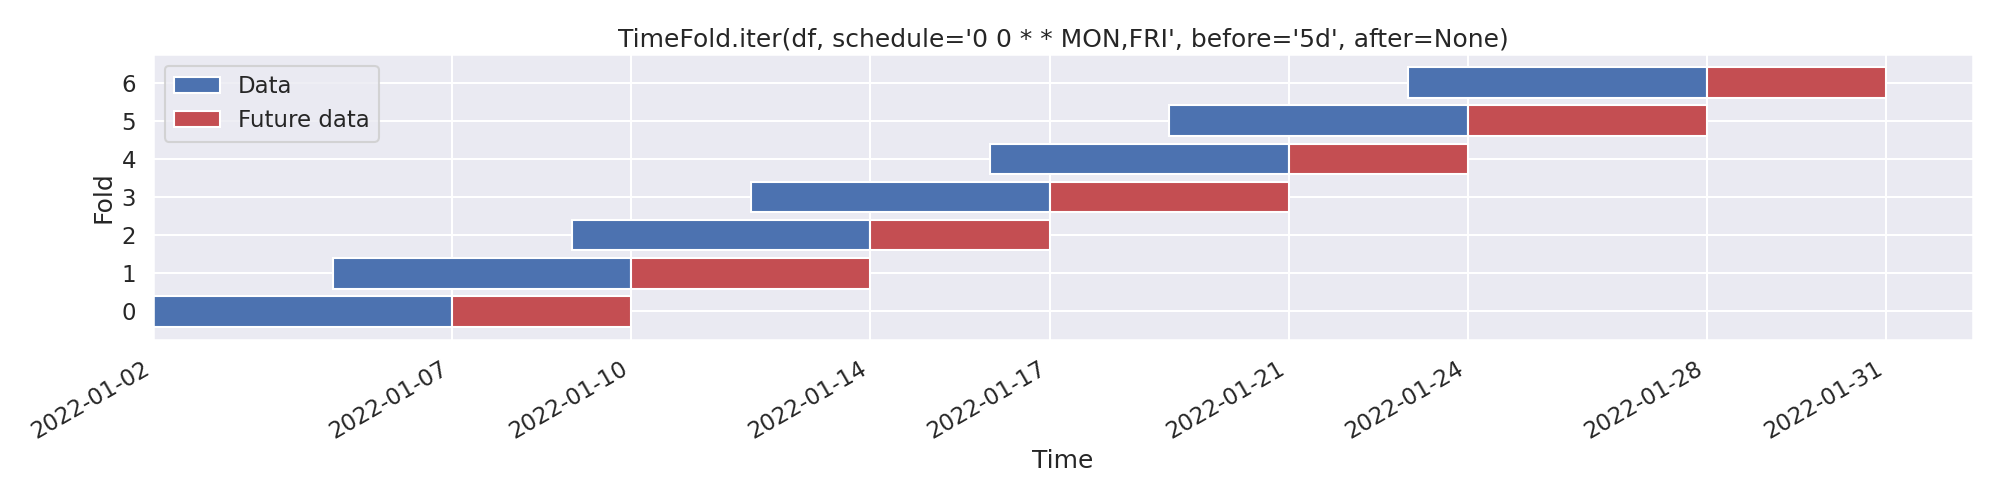
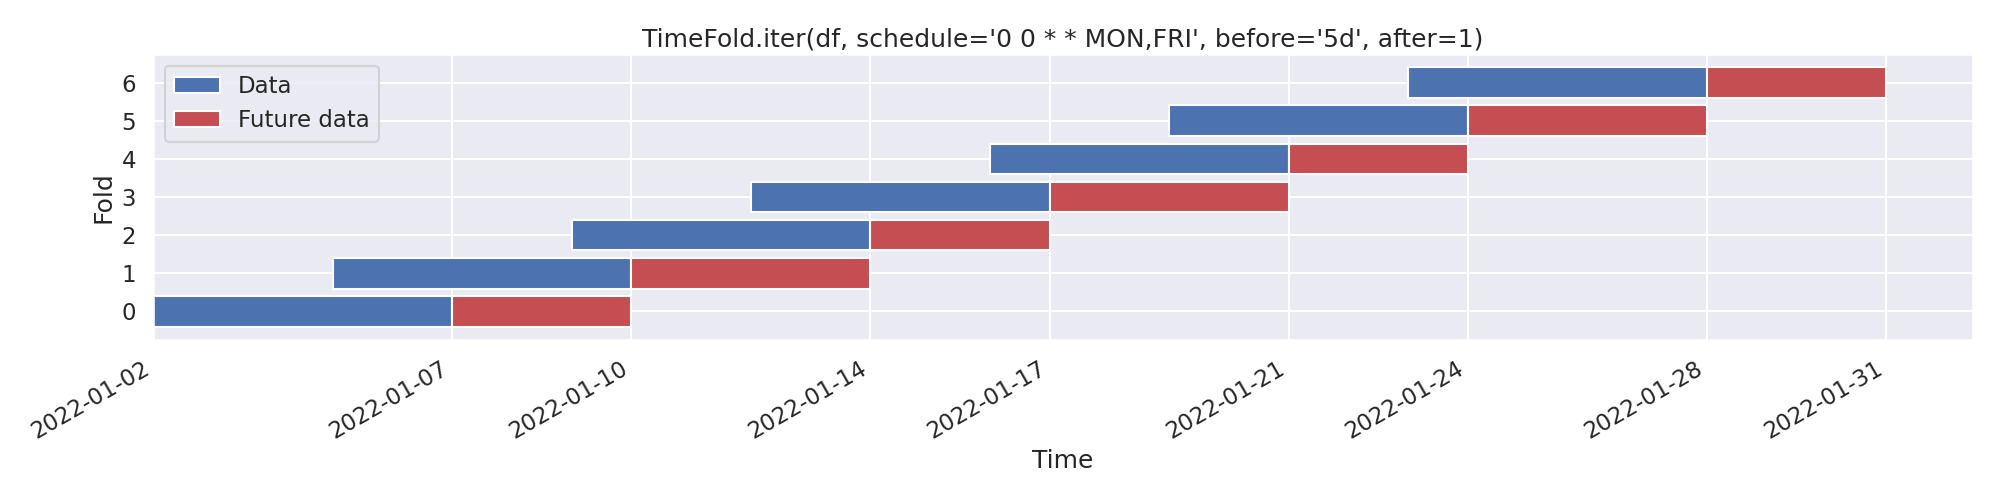
Increase flexibility of TimeFold before/after arguments (#161)

Changed region(s): [[0.31, 0.06, 0.775, 0.12]]

diff --git a/src/rics/utility/pandas/_time_fold.py b/src/rics/utility/pandas/_time_fold.py
@@ -1,11 +1,12 @@
-from typing import Iterable, NamedTuple, Optional, Sequence, Tuple, Union
+import itertools
+from typing import Iterable, Literal, NamedTuple, Optional, Sequence, Tuple, Union
 
 import pandas as pd
 
 from rics.utility.misc import tname
 
 Schedule = Union[pd.DatetimeIndex, pd.Timedelta, Sequence, str]
-Span = Union[str, pd.Timedelta]
+Span = Union[int, str, Literal["all"], pd.Timedelta]
 
 
 class TimeFold(NamedTuple):
@@ -30,6 +31,14 @@ class TimeFold(NamedTuple):
         2022-01-09 12:00:00: len(d)=18, len(fd)=3
         2022-01-12 08:00:00: len(d)=17, len(fd)=4
 
+        Including all data before the scheduled time.
+
+        >>> for fold in TimeFold.iter(df, schedule='68h', before='all'): print(fold)
+        TimeFold('2022-01-01 00:00:00': data.shape=(0, 1), future_data.shape=(10, 1))
+        TimeFold('2022-01-03 20:00:00': data.shape=(10, 1), future_data.shape=(10, 1))
+        TimeFold('2022-01-06 16:00:00': data.shape=(20, 1), future_data.shape=(10, 1))
+        TimeFold('2022-01-09 12:00:00': data.shape=(30, 1), future_data.shape=(9, 1))
+
         Plotting folds using ``TimeFold.plot``.
 
         >>> from rics.utility import configure_stuff; configure_stuff()
@@ -38,8 +47,11 @@ class TimeFold(NamedTuple):
 
         .. image:: ../_images/folds.png
 
-        The expression ``'0 0 * * MON,FRI'`` means `"every Monday and Friday at midnight"`. With ``after=None``
-        (the default), our `Future data` expands until the next scheduled time.
+        The expression ``'0 0 * * MON,FRI'`` means `"every Monday and Friday at midnight"`.
+
+        With ``after=1`` (the default), our `Future data` expands until the next scheduled time. This may be interpreted
+        as `"taking a step forward"` in the schdule. Using integer `before` arguments works analogously, in the
+        opposite direction.
 
     Notes:
        This method may be used to create temporal folds from heterogeneous/unaggregated data, typically used for
@@ -62,10 +74,16 @@ class TimeFold(NamedTuple):
         df: pd.DataFrame,
         schedule: Schedule = "1d",
         before: Span = "5d",
-        after: Span = None,
+        after: Span = 1,
         time_column: Optional[str] = "time",
     ) -> Iterable["TimeFold"]:
         """Create temporal k-folds from a heterogeneous ``DataFrame``.
+
+        The ranges surrounding the scheduled datetimes may be dynamically chosen by setting `before` and/or `after` to:
+
+            * ``'all'``: Include all data before/after the scheduled time, or
+            * An ``int > 0``: Include all data `N` schedule periods before/after the current schedule datetime.
+            * Any other values are passed as-is to the :class:`pandas.Timedelta` class.
 
         Args:
             df: A pandas ``DataFrame``.
@@ -73,8 +91,7 @@ class TimeFold(NamedTuple):
                 ``str``, create schedule from the start of ``df[time_column]``. Alternatively, you may pass a cron
                 expression (requires ``croniter``).
             before: The period before the scheduled datetime to include for each iteration.
-            after: The period after the scheduled datetime to include for each iteration. Set to ``None`` to dynamically
-                adjust such that the after-period lasts until the next scheduled datetime.
+            after: The period after the scheduled datetime to include for each iteration.
             time_column: Column in `df` to base the folds on. Use index if ``None``.
 
         Yields:
@@ -98,10 +115,16 @@ class TimeFold(NamedTuple):
         df: pd.DataFrame,
         schedule: Schedule = "1d",
         before: Span = "5d",
-        after: Span = None,
+        after: Span = 1,
         time_column: Optional[str] = "time",
-    ) -> None:  # pragma: no cover
-        """Plot the periods that would be returned by :meth:`iter` if invoked with the same parameters.
+    ) -> None:
+        """Plot the intervals that would be returned by :meth:`iter` if invoked with the same parameters.
+
+        The ranges surrounding the scheduled datetimes may be dynamically chosen by setting `before` and/or `after` to:
+
+            * ``'all'``: Include all data before/after the scheduled time, or
+            * An ``int > 0``: Include all data `N` schedule periods before/after the current schedule datetime.
+            * Any other values are passed as-is to the :class:`pandas.Timedelta` class.
 
         Args:
             df: A pandas ``DataFrame``.
@@ -109,8 +132,7 @@ class TimeFold(NamedTuple):
                 ``str``, create schedule from the start of ``df[time_column]``. Alternatively, you may pass a cron
                 expression (requires ``croniter``).
             before: The period before the scheduled datetime to include for each iteration.
-            after: The period after the scheduled datetime to include for each iteration. Set to ``None`` to dynamically
-                adjust such that the after-period lasts until the next scheduled datetime.
+            after: The period after the scheduled datetime to include for each iteration.
             time_column: Column in `df` to base the folds on. Use index if ``None``.
 
         Raises:
@@ -122,7 +144,7 @@ class TimeFold(NamedTuple):
         cuts = list(_parse_args(df, schedule, time_column, before, after)[0])
 
         if not cuts:
-            raise ValueError("Cannot plot an empty range.")
+            raise ValueError("Cannot plot an empty range.")  # pragma: no cover
 
         fig, ax = plt.subplots(tight_layout=True)
         xticks = [cuts[0][0]]
@@ -144,7 +166,7 @@ class TimeFold(NamedTuple):
             f"{after=}",
         ]
         if time_column != "time":
-            args.append(f"{time_column=}")
+            args.append(f"{time_column=}")  # pragma: no cover
         ax.set_title(f"TimeFold.iter({', '.join(args)})")
         ax.legend()
         fig.autofmt_xdate()
@@ -200,19 +222,44 @@ def _handle_schedule(
 
 
 def _cuts(
-    schedule: Schedule, time: Union[pd.DatetimeIndex, pd.Series], before: Span, after: Optional[Span]
+    schedule: Schedule, time: Union[pd.DatetimeIndex, pd.Series], before: Span, after: Span
 ) -> Iterable[Tuple[pd.Timestamp, pd.Timestamp, pd.Timestamp]]:  # pragma: no cover
     min_dt, max_dt = time.agg(["min", "max"])
     parsed_schedule = _handle_schedule(schedule, min_dt, max_dt)
 
+    if before == "all":
+        before_iter = itertools.cycle([min_dt])
+    elif isinstance(before, int):
+        before_iter = parsed_schedule
+        parsed_schedule = _handle_span(parsed_schedule, before, before=False)
+    else:
+        before_iter = _handle_span(parsed_schedule, before, before=True)
+
     for start, mid, stop in zip(
-        parsed_schedule - pd.Timedelta(before),
+        before_iter,
         parsed_schedule,
-        parsed_schedule[1:] if after is None else parsed_schedule + pd.Timedelta(after),
+        itertools.cycle([max_dt]) if after == "all" else _handle_span(parsed_schedule, after, before=False),
     ):
         if start < min_dt:
             continue
         if stop > max_dt:
             break
+        if start > mid or mid > stop:
+            continue
 
         yield start, mid, stop
+
+
+def _handle_span(schedule: pd.DatetimeIndex, span: Span, before: bool) -> pd.DatetimeIndex:
+    if isinstance(span, int):
+        if span < 0:
+            raise ValueError("Period offset cannot be negative.")  # pragma: no cover
+        assert not before, "This isn't supposed to happen."  # noqa: S101
+
+        return schedule[span:]
+    else:
+        offset = pd.Timedelta(span)
+        if before:
+            return schedule - offset
+        else:
+            return schedule + offset

diff --git a/tests/utility/pandas/test_time_fold.py b/tests/utility/pandas/test_time_fold.py
@@ -16,24 +16,48 @@ from rics.utility.pandas import TimeFold
             ],
         ),
         (
+            dict(schedule="3d", before=1, after=1),
+            [
+                ("2022-01-04", range(0, 36), range(36, 72)),
+                ("2022-01-07", range(36, 72), range(72, 108)),
+                ("2022-01-10", range(72, 108), range(108, 144)),
+            ],
+        ),
+        (
+            dict(schedule="0 0 * * MON,FRI", before="all", after=2),
+            [
+                ("2022-01-03", range(0, 24), range(24, 108)),
+                ("2022-01-07", range(0, 72), range(72, 156)),
+            ],
+        ),
+        (
+            dict(schedule="3d", before=2, after="all"),
+            [
+                ("2022-01-7", range(0, 72), range(72, 168)),
+                ("2022-01-10", range(36, 108), range(108, 168)),
+                ("2022-01-13", range(72, 144), range(144, 168)),
+            ],
+        ),
+        (
             dict(schedule="0 0 * * MON,FRI"),
             [
                 ("2022-1-7", range(12, 72), range(72, 108)),
                 ("2022-1-10", range(48, 108), range(108, 156)),
             ],
         ),
+        (dict(before="100000d"), []),  # Should be empty
     ],
 )
 def test_iter(kwargs, expected):
     df = pd.DataFrame({"time": pd.date_range("2022", "2022-1-15", freq="2h")})
 
-    assert len(list(TimeFold.iter(df, **kwargs))) == len(expected)
-    for (et, ed, efd), (t, d, fd) in zip(expected, TimeFold.iter(df, **kwargs)):
+    actual = list(TimeFold.iter(df, **kwargs))
+    for (et, ed, efd), (t, d, fd) in zip(expected, actual):
         assert pd.Timestamp(et) == t, t
         assert pd.Index(ed).equals(d.index), t
         assert pd.Index(efd).equals(fd.index), t
+    assert len(actual) == len(expected)
 
-
-def test_plot_doesnt_crash():
-    df = pd.DataFrame({"time": pd.date_range("2022", "2022-2")})
-    TimeFold.plot(df, schedule="0 0 * * MON,FRI")
+    # Test plotting doesn't crash
+    if expected:
+        TimeFold.plot(df, **kwargs)
